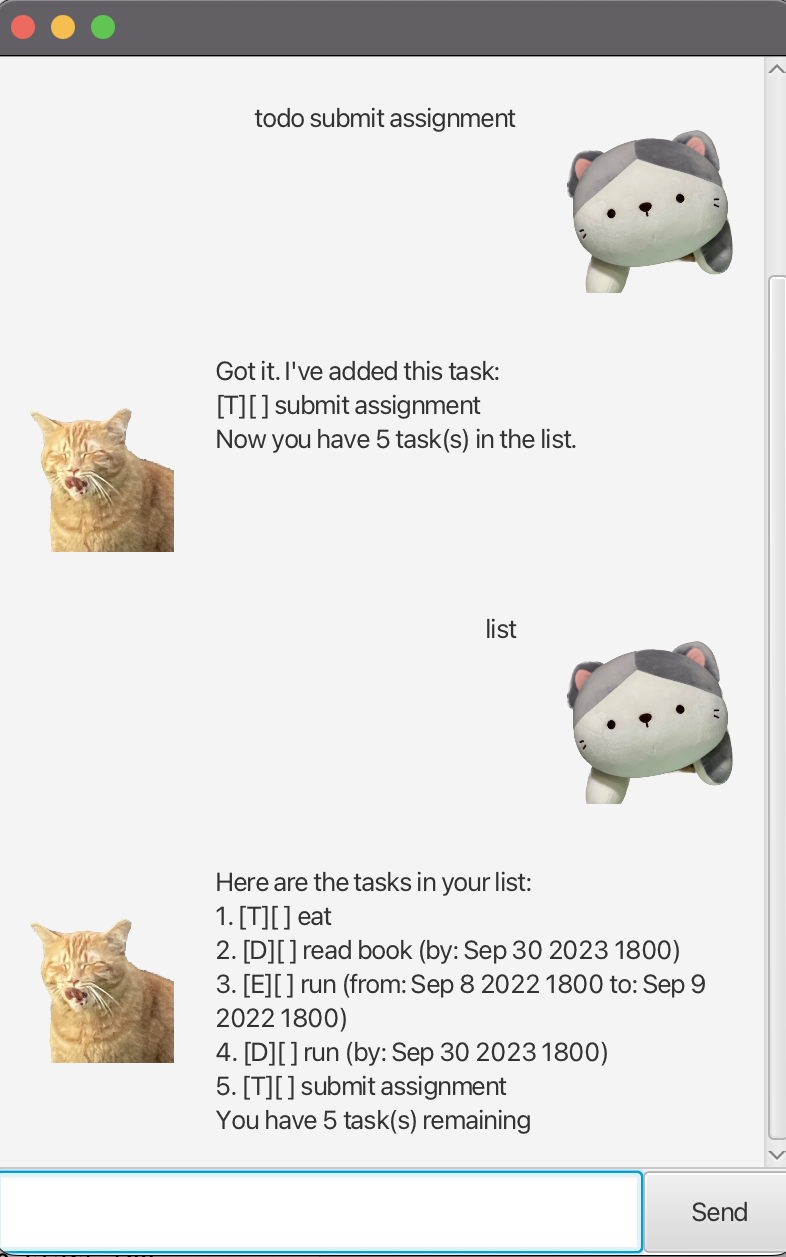
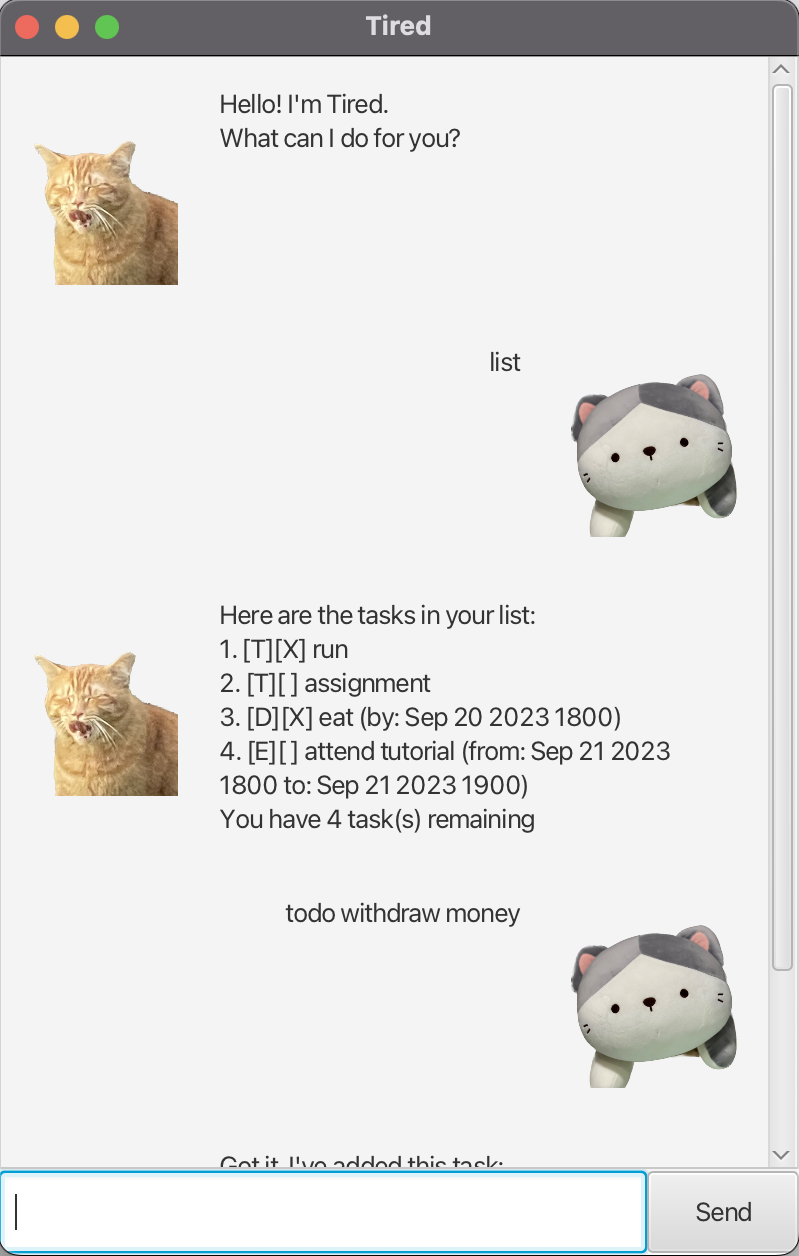
Fix bugs

diff --git a/src/main/java/duke/Main.java b/src/main/java/duke/Main.java
@@ -21,6 +21,7 @@ public class Main extends Application {
             FXMLLoader fxmlLoader = new FXMLLoader(Main.class.getResource("/view/MainWindow.fxml"));
             AnchorPane ap = fxmlLoader.load();
             Scene scene = new Scene(ap);
+            stage.setTitle("Tired");
             stage.setScene(scene);
             fxmlLoader.<MainWindow>getController().setDuke(duke);
             stage.show();

diff --git a/src/main/java/duke/Parser.java b/src/main/java/duke/Parser.java
@@ -231,8 +231,8 @@ public class Parser {
             throw new DukeException("Invalid task type!");
         }
 
-        if (taskStatus.equals("0")) {
-            task.markAsUndone();
+        if (taskStatus.equals("1")) {
+            task.markAsDone();
         }
         return task;
     }
